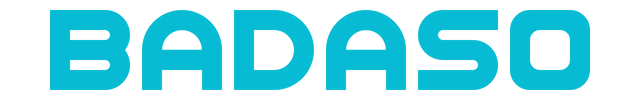
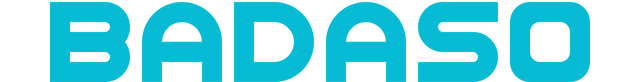
fix style for mobile

diff --git a/website/static/css/custom.css b/website/static/css/custom.css
@@ -12,7 +12,7 @@
 }
 
 .fixedHeaderContainer header img {
-  height: 70%;
+  height: 60%;
 }
 
 .fixedHeaderContainer header .headerTitleWithLogo {
@@ -253,7 +253,7 @@
 }
 
 .customProjectLogo {
-  height: 48px;
+  height: 24px;
 }
 
 .nav-footer {
@@ -281,10 +281,10 @@
 
 .customProjectTitle {
   font-weight: 400;
-  height: 54px;
+  font-size: 24px;
 }
 
-@media only screen and (min-device-width: 360px) and (max-device-width: 736px) {
+@media only screen and (min-device-width: 320px) and (max-device-width: 736px) {
 }
 
 @media only screen and (min-width: 1024px) {
@@ -293,6 +293,14 @@
     width: 15%;
     margin: -12px 20px 0 0;
     padding: 10px
+  }
+
+  .customProjectLogo {
+    height: 48px;
+  }
+
+  .customProjectTitle {
+    font-size: 100%;
   }
 }
 
